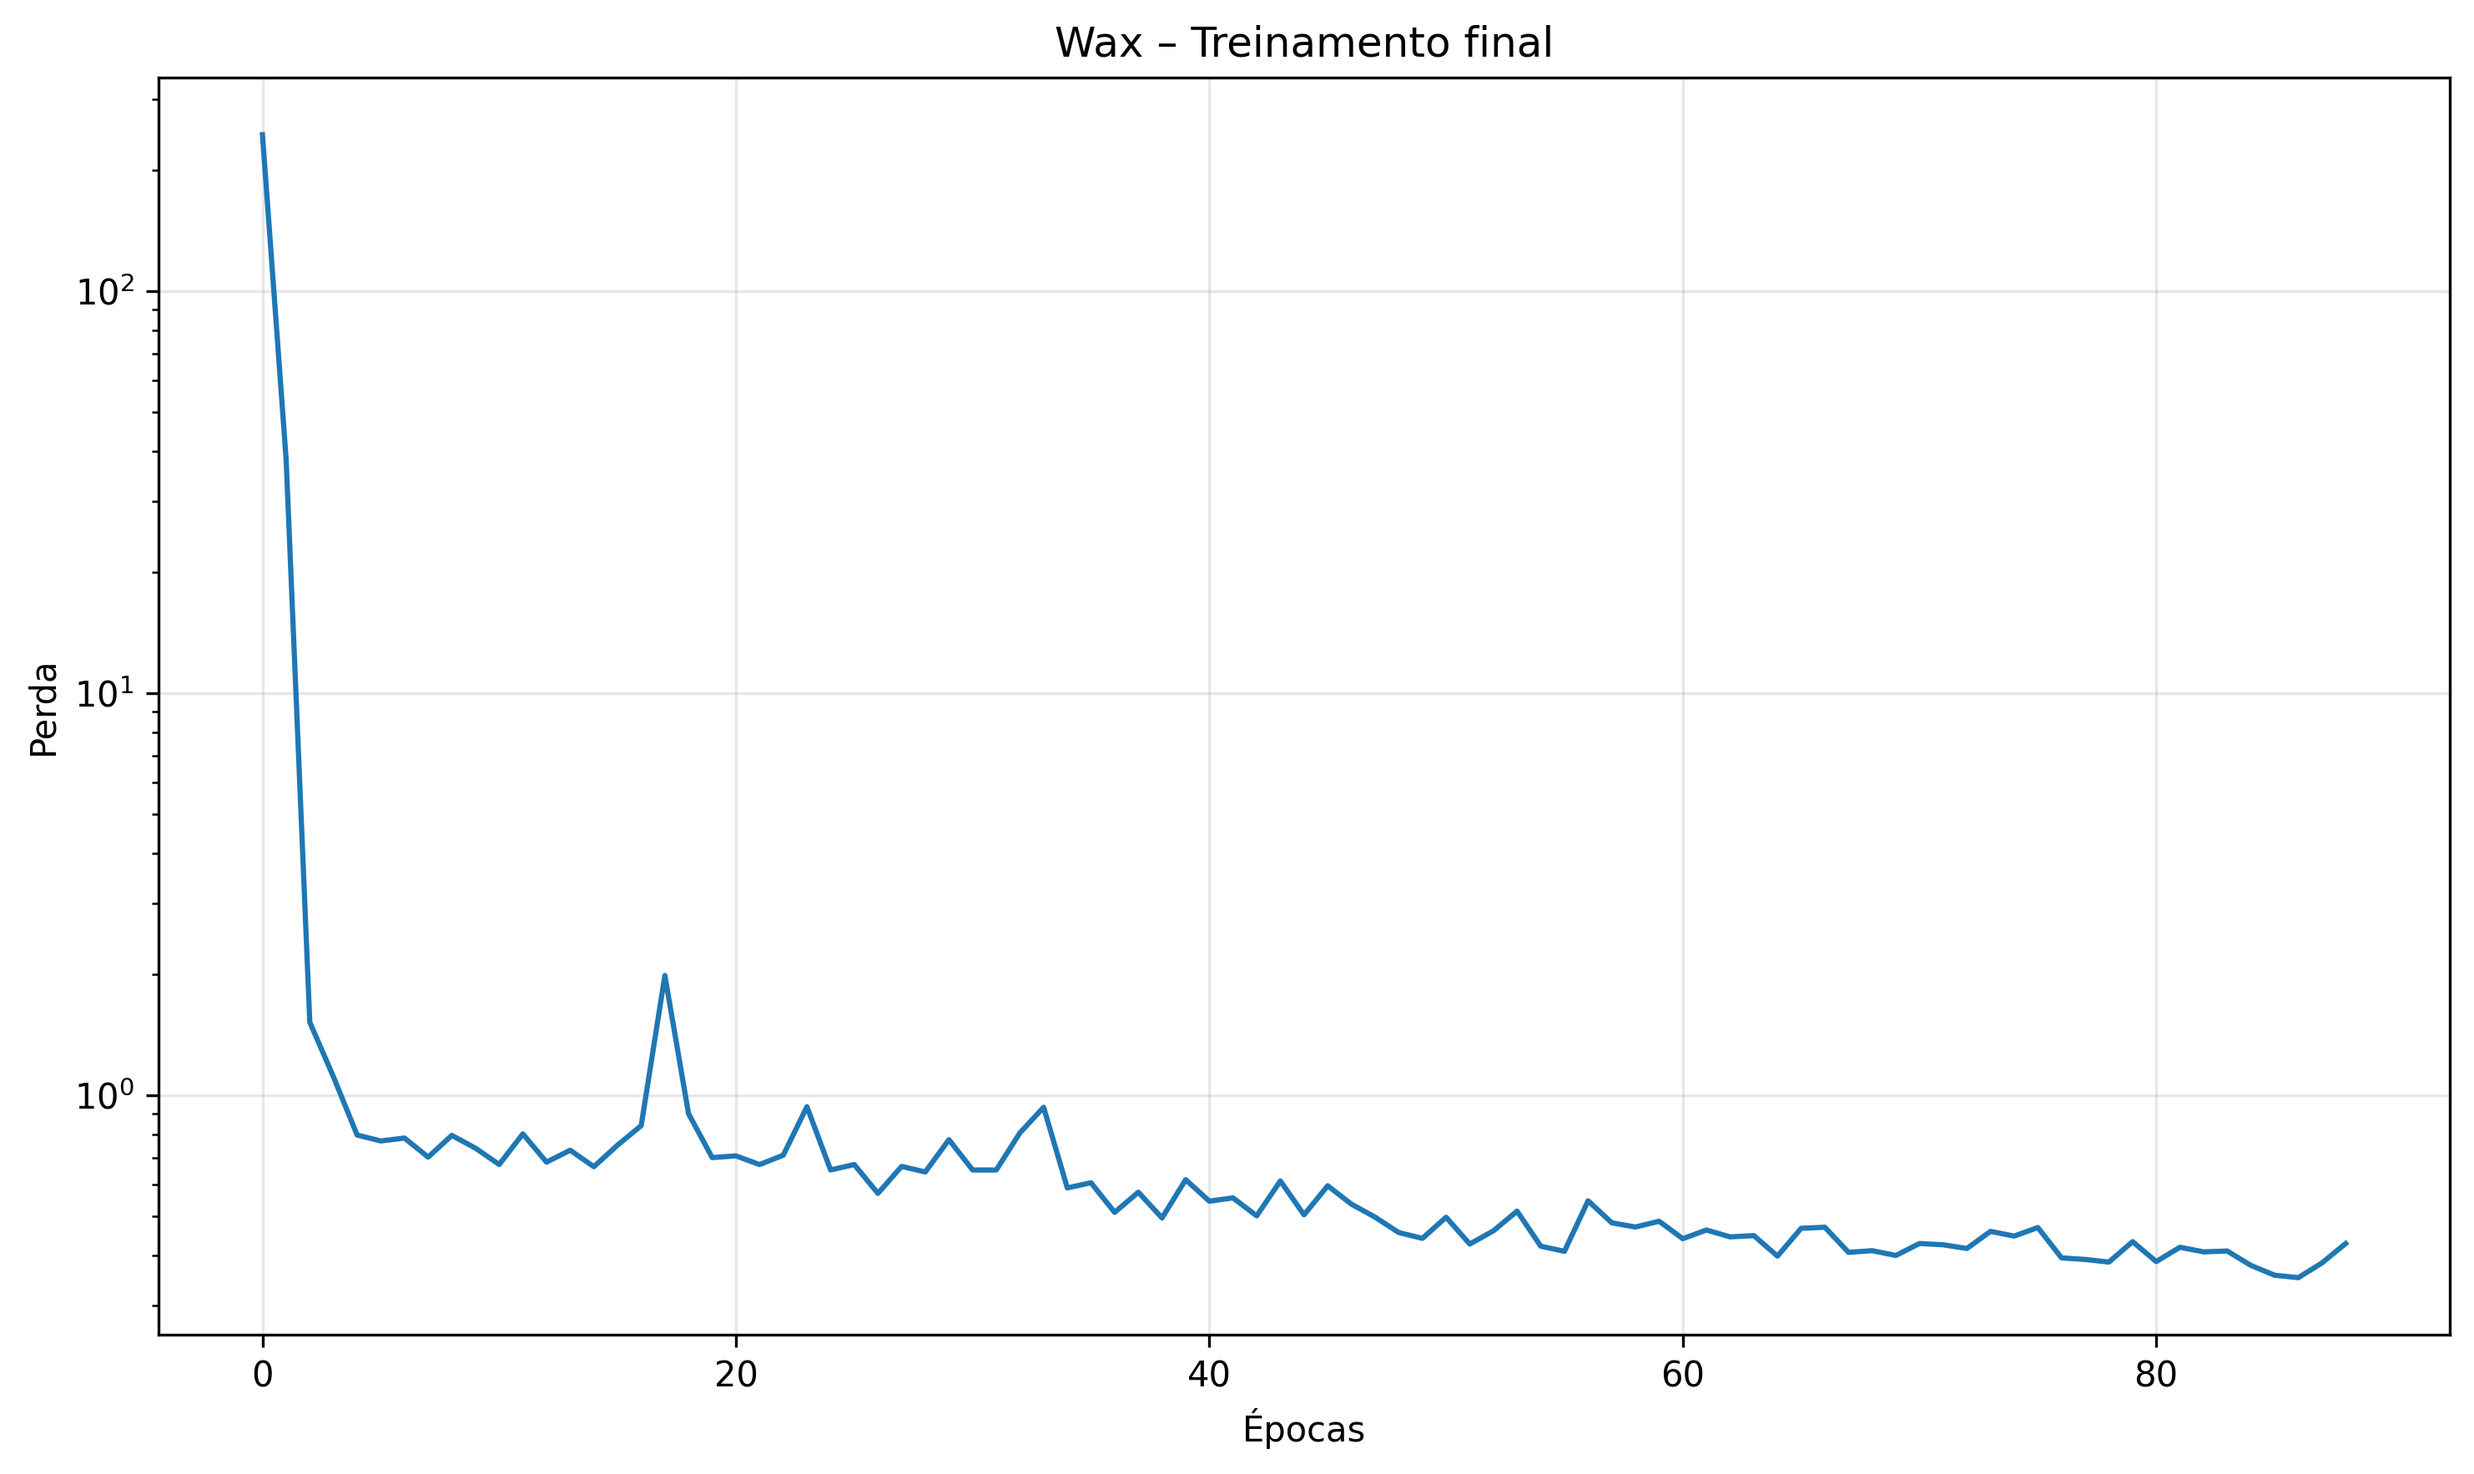
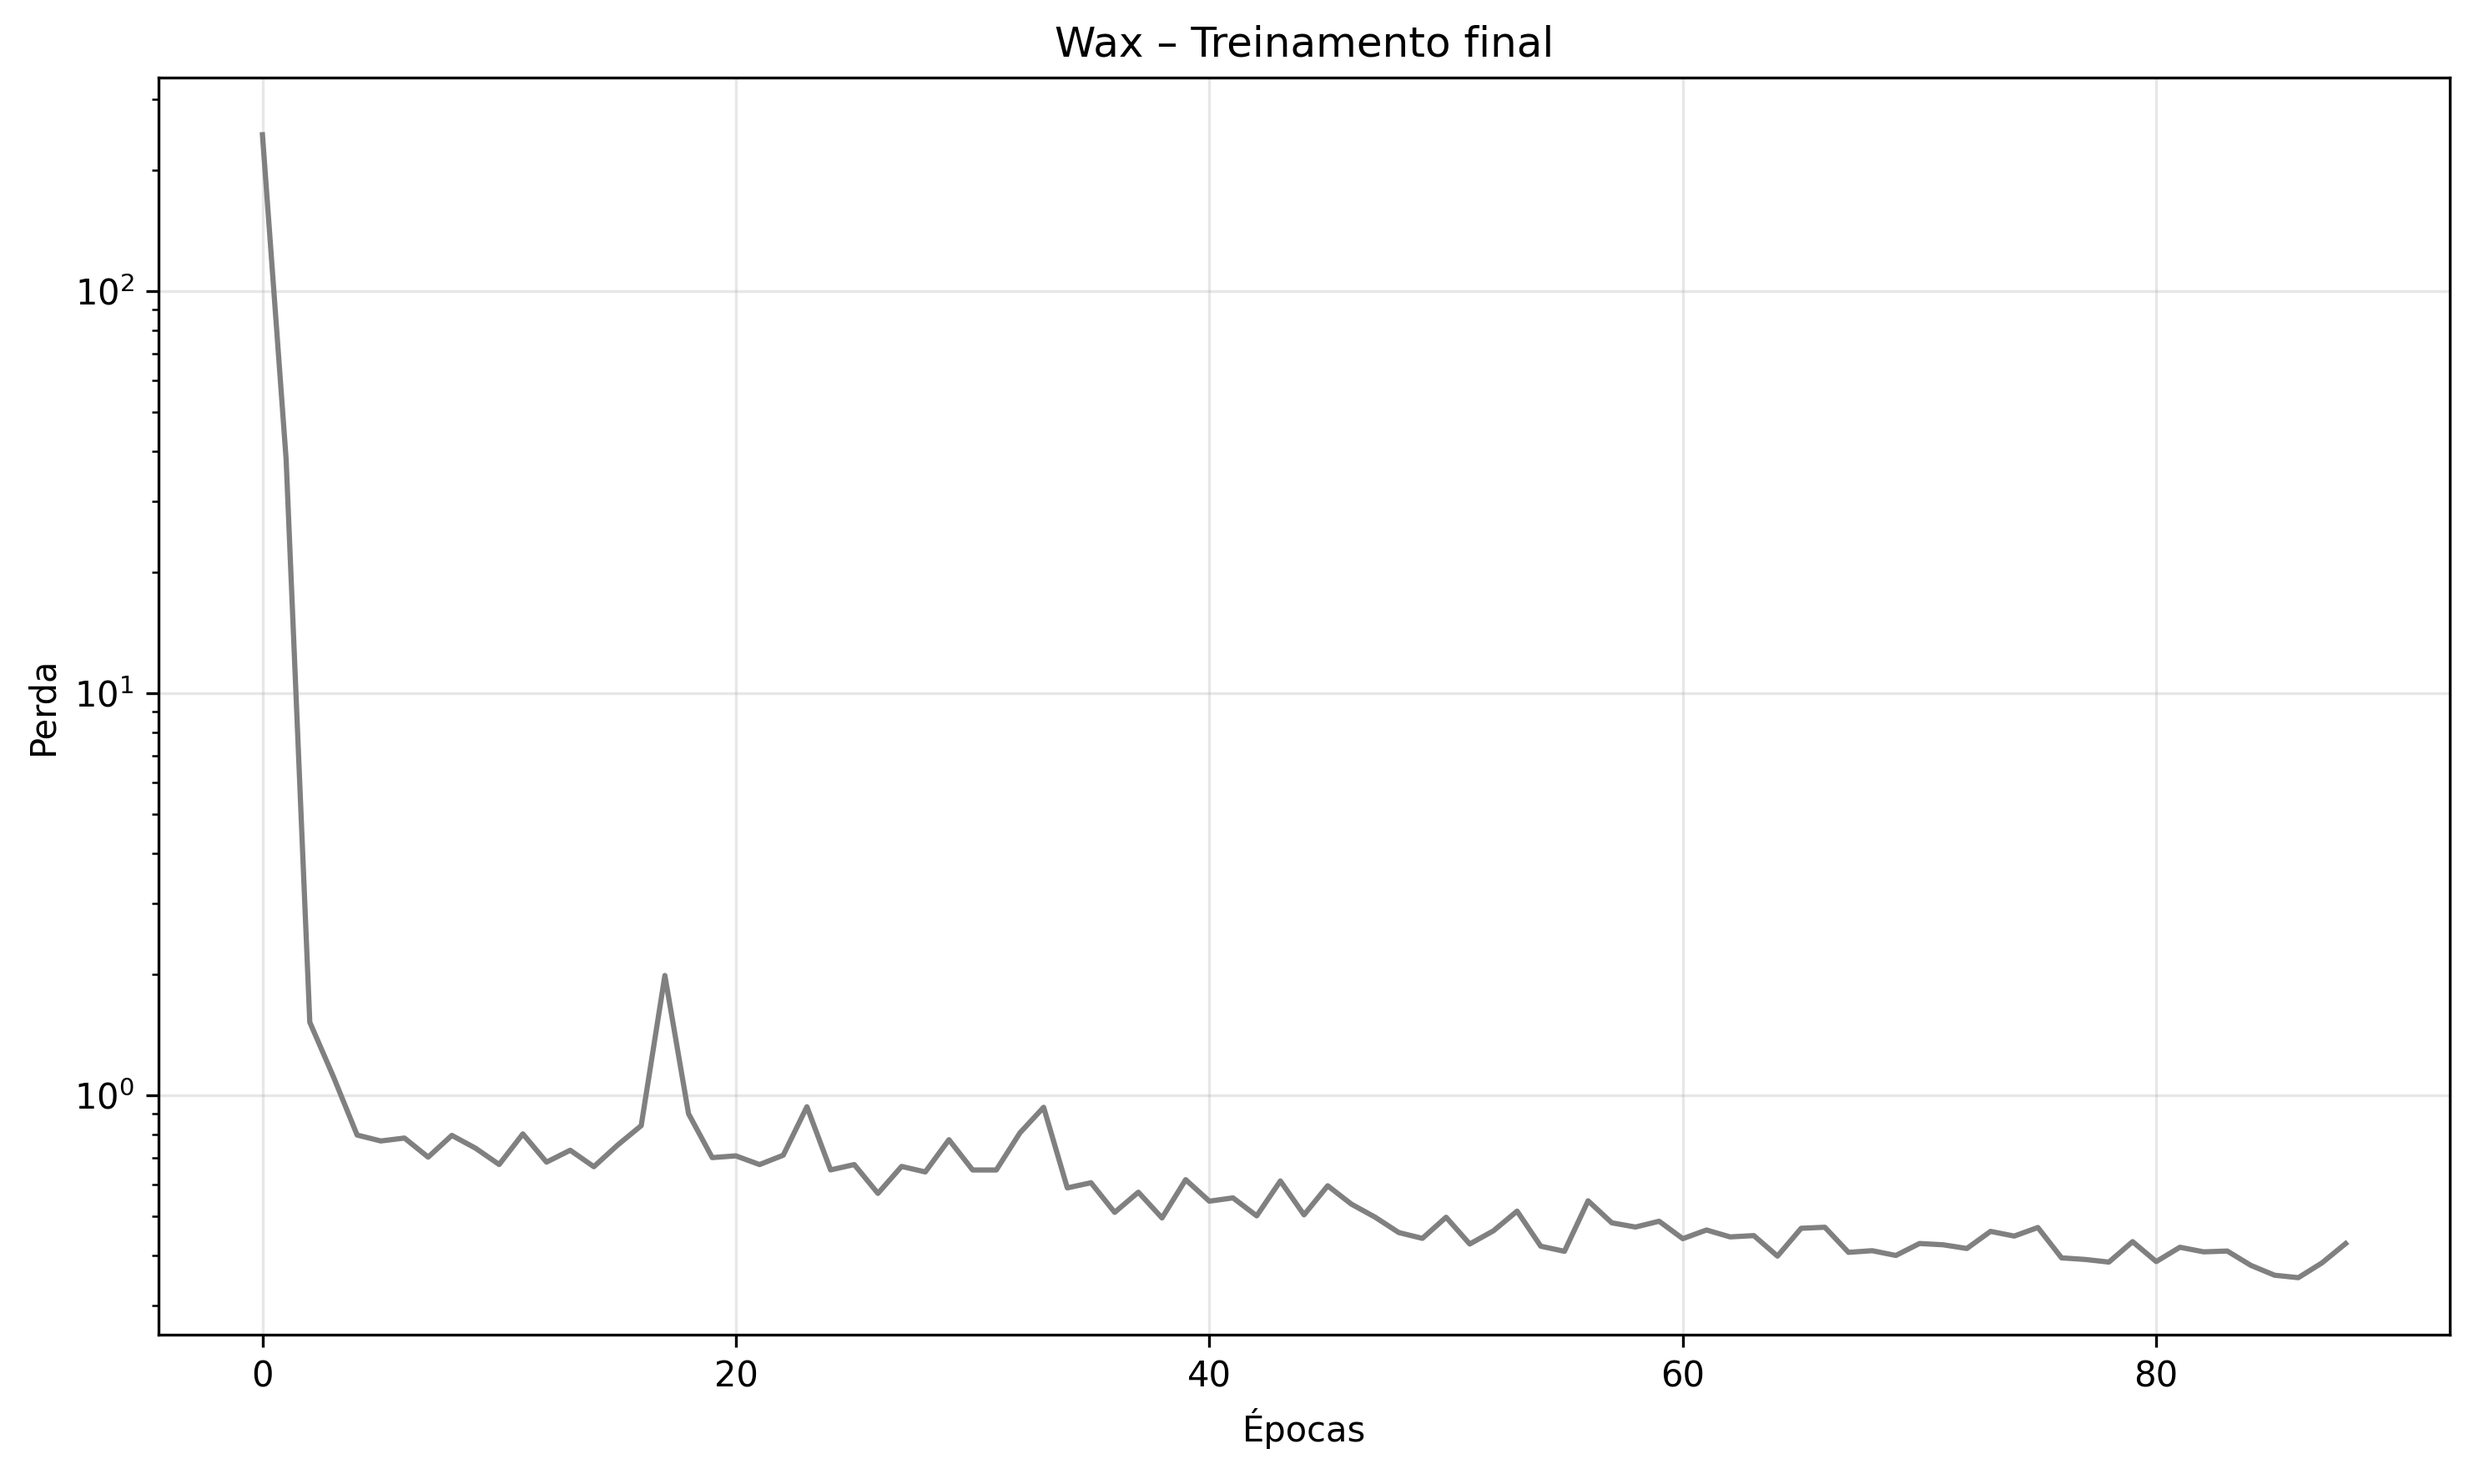
update

diff --git a/RNA.py b/RNA.py
@@ -124,7 +124,7 @@ configuracoes_predefinidas = {
 # MAIN CONFIGURATION
 COLUNAS = ["Density", "Pour_Point", "Wax",
            "Asphaltene", "Viscosity_20C", "Viscosity_50C"]
-VARIAVEL = "Pour_Point"
+VARIAVEL = "Viscosity_50C"
 
 # Utilities
 
@@ -426,7 +426,7 @@ def executar_modelo_otimizado(
 
     # Final loss curve
     plt.figure(figsize=(10, 6))
-    plt.plot(historico.history['loss'])
+    plt.plot(historico.history['loss'], color='gray')
     plt.yscale('log')
     plt.xlabel('Épocas')
     plt.ylabel('Perda')
@@ -438,20 +438,41 @@ def executar_modelo_otimizado(
     plt.close()
 
     # Predictions vs Observations
-    plt.figure(figsize=(10, 8))
-    plt.scatter(y_teste, y_pred, alpha=0.7, color='blue')
-    valor_min = min(np.min(y_teste), np.min(y_pred))
-    valor_max = max(np.max(y_teste), np.max(y_pred))
-    plt.plot([valor_min, valor_max], [valor_min, valor_max], 'r--', lw=2)
-    plt.xlabel('Valores Observados')
-    plt.ylabel('Valores Preditos')
-    plt.title(f'{alvo} - Predições vs Observações (Teste)')
-    plt.grid(True, alpha=0.3)
-    plt.text(0.05, 0.95, f'R² = {metricas_teste["r2"]:.4f}', transform=plt.gca().transAxes,
-             bbox=dict(boxstyle='round', facecolor='white', alpha=0.8))
+    plt.figure(figsize=(8, 8))  # Alterado para quadrado (padrão técnico para plot x=y)
+
+    # Scatter com borda preta (edgecolor) destaca melhor os pontos impressos
+    plt.scatter(y_teste, y_pred, alpha=0.6, color='green', edgecolor='k', s=50, label='Dados')
+
+    # Definição de limites unificados para garantir a escala exata de 45 graus
+    v_min = min(np.min(y_teste), np.min(y_pred))
+    v_max = max(np.max(y_teste), np.max(y_pred))
+    margem = (v_max - v_min) * 0.05
+    limites = [v_min - margem, v_max + margem]
+
+    # Linha de identidade (preto tracejado é mais sóbrio para artigos)
+    plt.plot(limites, limites, 'k--', lw=2, label='Ideal (1:1)')
+
+    # Labels e Título com formatação matemática (MathText)
+    plt.xlabel(r'Valores Observados ($y_{obs}$)', fontsize=12)
+    plt.ylabel(r'Valores Preditos ($y_{pred}$)', fontsize=12)
+    plt.title(f'{alvo}', fontsize=14, pad=10)
+
+    # Forçar eixos idênticos
+    plt.xlim(limites)
+    plt.ylim(limites)
+
+    plt.grid(True, linestyle=':', alpha=0.6)
+    plt.legend(loc='lower right')  # Legenda ajuda a identificar a linha de referência
+
+    # Caixa de texto estilizada
+    plt.text(0.05, 0.95, f'$R^2$ = {metricas_teste["r2"]:.4f}', transform=plt.gca().transAxes,
+             fontsize=12, verticalalignment='top',
+             bbox=dict(boxstyle='round,pad=0.5', facecolor='white', alpha=0.9, edgecolor='g'))
+
     plt.tight_layout()
+    # DPI 600 é o padrão ouro para publicações (evita serrilhado)
     plt.savefig(os.path.join(caminho, 'predicoes_vs_observacoes.png'),
-                dpi=300, bbox_inches='tight')
+                dpi=600, bbox_inches='tight')
     plt.close()
 
     # Save input columns

diff --git a/TUNING.py b/TUNING.py
@@ -58,8 +58,7 @@ tf.keras.utils.set_random_seed(SEMENTE)
 np.random.seed(SEMENTE)
 
 # MAIN CONFIGURATION
-COLUNAS = ["Density", "Pour_Point", "Wax",
-           "Asphaltene", "Viscosity_20C", "Viscosity_50C"]
+COLUNAS = ["Density", "Pour_Point", "Wax", "Asphaltene", "Viscosity_20C", "Viscosity_50C"]
 VARIAVEL = "Viscosity_20C"
 FOLDS = 5
 TENTATIVAS = 500

diff --git a/APP.py b/APP.py
@@ -347,3 +347,4 @@ with st.sidebar:
     st.image(str(logo2), width=3125)
     st.image(str(logo3), width=3125)
     st.image(str(logo4), width=3125)
+    
